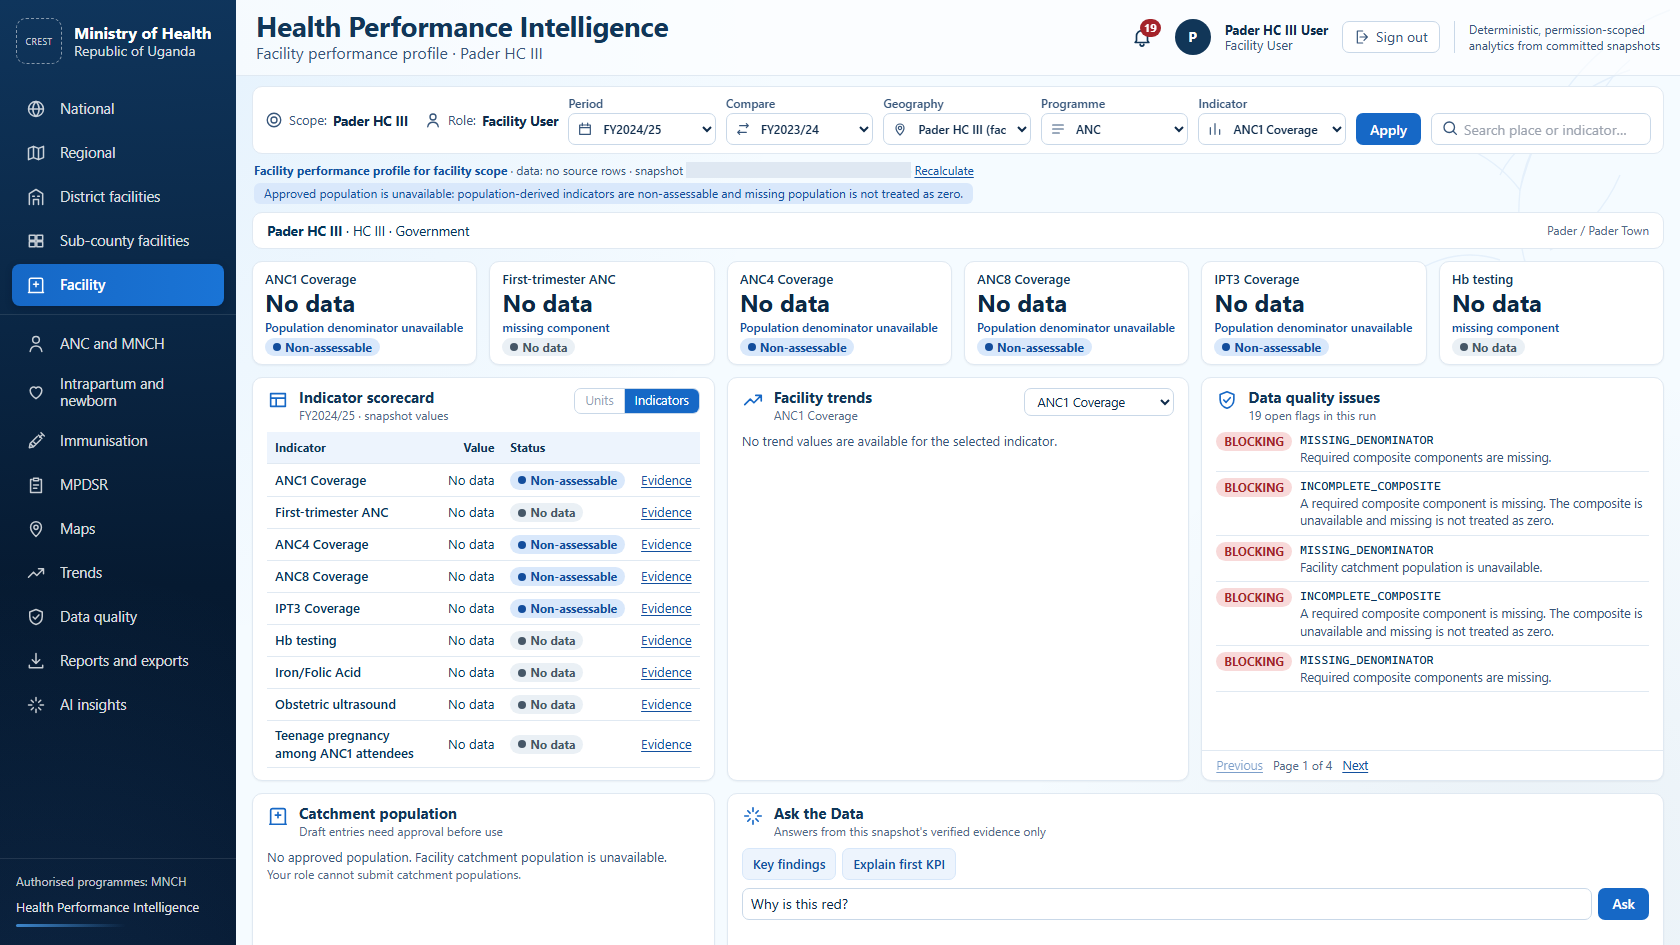
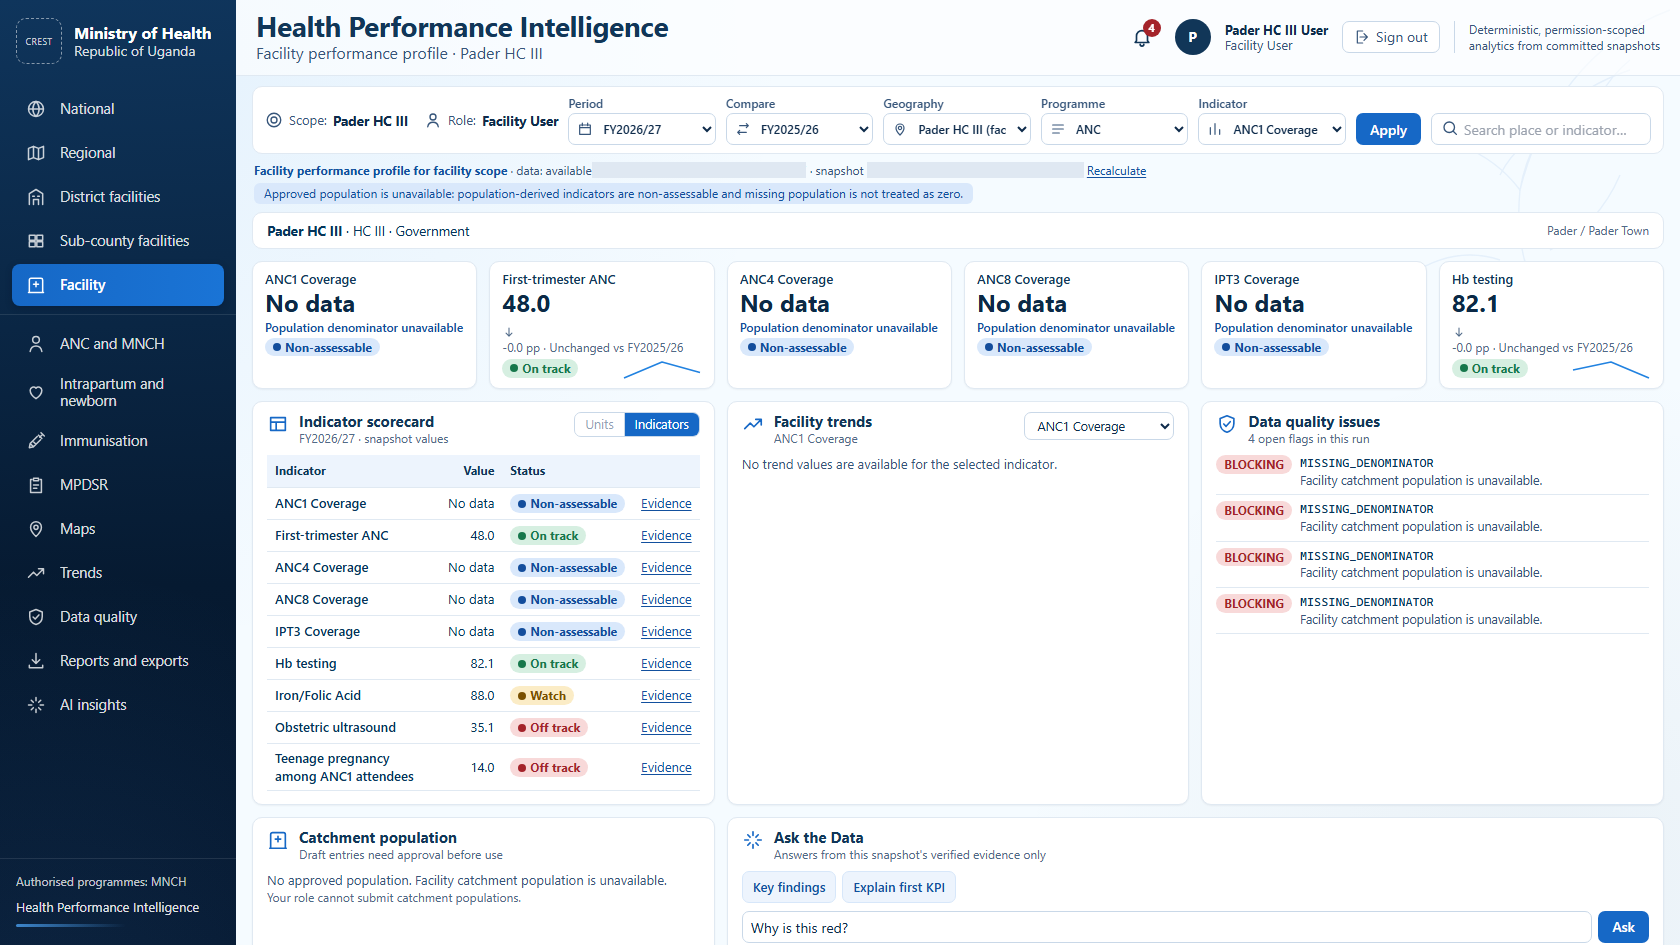
Document the demonstration dataset and what populating it exposed

diff --git a/docs/project-context/CHANGELOG_CONTEXT.md b/docs/project-context/CHANGELOG_CONTEXT.md
@@ -64,6 +64,40 @@ Before the first run, `CodexSandboxOffline` had again written `frontend/.next` (
 `frontend/test-results` and `backend/e2e_hpip.sqlite`; the build guard failed the gate (exit 1).
 They were moved, not deleted, to `.build-quarantine/20260915-third-pass/`.
 
+## 2026-09-18 — Demonstration dataset, calculation performance and layout fixes
+
+The dashboards could only be seen empty: the development seed created geography and users but no
+populations or source values, so every indicator was correctly unavailable and every panel read
+"No data". This adds an invented demonstration dataset for development and test, and fixes what it
+exposed. **No production data, population, boundary or DHIS2 connection is involved; nothing was
+deployed.**
+
+- **Demonstration dataset** (`app/services/demo_data.py`, refuses to run outside development/test):
+  fictional sub-counties and nine facilities, an approved-status fictional population version,
+  facility-level counts for every catalogue source key across FY2024/25–FY2026/27, `demo` source
+  mappings, and stylised invented outlines for the sub-regions and districts. Deterministic, with
+  deliberate gaps (no facility catchment population, no sub-county or facility geometry, nothing
+  before FY2024/25) so honest-missing behaviour stays visible. See `SYNTHETIC_FIXTURES.md`.
+- **Calculation performance (product defect):** lineage resolved the source mapping with one query
+  per source row. A national immunisation dashboard issued **4,627** SQL statements; a run-scoped
+  memo of the mapping lookup cuts it to **1,569** and the request from **3.3 s to 1.4 s** (ANC) and
+  **6.7 s to 2.7 s** (immunisation). This mattered only once real values existed, and matters far
+  more at national scale than in these fixtures.
+- **KPI card overflow (layout defect):** a long status label plus the fixed-width sparkline could not
+  shrink, so the card's grid track grew and the immunisation workspace scrolled horizontally (17 px
+  at 1680, 69 px at 390). The card now constrains its track and the footer wraps.
+- **Map evidence:** the map fits its cohort instantly instead of animating, and marks itself
+  `data-map-ready` when painted, so acceptance screenshots capture a drawn map rather than an empty
+  canvas.
+- **Default period** is FY2026/27 with FY2025/26 comparison — the current financial year, and the
+  three periods the approved population rules cover, so trends have three points.
+- **Playwright parallelism** is two workers: one disposable SQLite API serves every worker and each
+  screen commits a real calculation snapshot, so more workers measure contention, not the product.
+
+Verification (Windows workstation): full SQLite backend suite; `npm run e2e` **24 passed, 0 skipped,
+0 flaky**, natural exit, ports free, no survivors, tree unchanged; `npm run e2e:evidence` refreshed
+the tracked screenshots, which now show populated, coloured dashboards.
+
 ## 2026-09-16 — Acceptance-gate corrections (fourth pass)
 
 Bounded corrections to `npm run e2e` only. No application behaviour, deployment, push, or external

diff --git a/docs/project-context/DEFECT_MATRIX.md b/docs/project-context/DEFECT_MATRIX.md
@@ -127,3 +127,12 @@ Gate-only corrections after review rejected the third-pass gate. Logic now lives
 | 6 | Follow-up audit: initial enumeration failure recorded an error but still launched the unobservable build and services | Initial inventory is now a hard prerequisite. Failure sets `execution_started: false`, launches nothing, skips the inapplicable report-freshness check and returns a structured failed summary | Real hung-lister regression asserts zero preparation calls, zero spawns, no owned processes and no Playwright-report error; real entrypoint with a 1 ms query bound aborts before launch | Implemented, tested |
 | 7 | Follow-up audit: the clean real-process test was nondeterministic under the complete Vitest suite (`102 passed, 1 failed`) because restricted-Windows baseline-delta mode saw parallel Vitest workers as new processes | Real-process tests no longer overlap other test-file workers; final survivor verification uses bounded repeated queries instead of a single timing-sensitive snapshot and reports PID, creation time, attribution and kind for persistent survivors | Gate tests **18 passed**; complete **105 passed** in three consecutive runs; full `npm run e2e` under the checkout-owning account: **24 passed, 0 skipped, 0 flaky**, natural exit 0.1 s after the summary, 102 processes observed, 0 survivors, ports free, tree unchanged | Implemented, verified locally |
 | 8 | Identity capture allowed an undocumented two-second pre-spawn window on every platform | Process-table results declare timestamp resolution; Windows uses 1 ms and Unix `ps lstart` uses 1 s, with boundary regressions for accepted and rejected creation times | Millisecond and second-resolution identity-capture tests | Implemented, tested |
+
+## Findings exposed by the demonstration dataset — 2026-09-18
+
+Populating the development dashboards revealed two defects that an empty dataset could not show.
+
+| Item | Defect | Correction | Regression evidence | State |
+|---|---|---|---|---|
+| 1 | Calculation lineage issued one `SourceMapping` query per source row. One national immunisation dashboard ran 4,627 SQL statements (3,240 of them mapping lookups, 65% of the time) | Run-scoped memo keyed by programme, source key, mapping version, item UID, category combo and recorded mapping id; the mapping table cannot change during a run | 1,569 statements; national ANC 3.3 s → 1.4 s, immunisation 6.7 s → 2.7 s; 153 lineage/calculation tests pass unchanged | Implemented, tested |
+| 2 | KPI cards could not shrink: a long status label plus the fixed 80 px sparkline widened the card's implicit grid track, so the immunisation workspace overflowed horizontally at every breakpoint | The card declares one `minmax(0, 1fr)` track; the footer wraps and its children may shrink | Playwright overflow gate at 1680×945, 820×1180 and 390×844 | Implemented, tested |

diff --git a/docs/architecture/SYNTHETIC_FIXTURES.md b/docs/architecture/SYNTHETIC_FIXTURES.md
@@ -25,3 +25,28 @@ Test helpers insert `TEST_POP` / `TEST_SOURCE_SYNTHETIC` values. Default seed in
 ## Aggregation fixture
 
 `tests/test_aggregation_first.py` uses unequal child denominators (80/100 and 10/400) so the parent result is 90/500 = 18%, not the mean of 80% and 2.5%.
+
+## Demonstration dataset (development and test only)
+
+`app/services/demo_data.py` layers an invented dataset on the development seed so the dashboards can
+be seen working. `scripts/run_e2e_api.py` calls it; `seed_demo_analytics` refuses to run outside
+development and test. **Nothing in it is Ugandan health data, a national population, a DHIS2
+identifier or an approved boundary.**
+
+| What it adds | Detail |
+|---|---|
+| Geography | Fictional sub-counties (Atanga, Kitgum Central, Lagoro, Soroti East, Kamuda) and nine facilities under the existing synthetic districts |
+| Population | One approved-status version, `DEMO_SYNTHETIC` / `SYNTHETIC_DEMONSTRATION_FIXTURE`, for non-facility units, 2024–2027 |
+| Source values | Facility-level counts for every source key the approved catalogue reads, for FY2024/25, FY2025/26 and FY2026/27, written with source system `synthetic_demo_fixture` |
+| Source mappings | `DEMO_<key>` labels at mapping version `demo`, so calculations are not flagged as unmapped |
+| Geometry | Stylised invented outlines for the two sub-regions and three districts, source `synthetic_demo_fixture` |
+
+Values are deterministic — no randomness and no clock — so screenshots and tests are stable. They are
+shaped only to exercise the approved catalogue: every band, direction and formula still comes from
+`indicator_catalog`, and the demonstration layer defines no threshold and no formula.
+
+Deliberate gaps keep the honest-missing behaviour visible: facilities have **no** approved catchment
+population (facility screens still show the unavailable state), sub-counties and facilities have
+**no** geometry (a district map reports unavailable boundaries rather than borrowing shapes from
+another level), and periods before FY2024/25 have no approved population rule, so trends show gaps
+rather than invented history.

diff --git a/docs/architecture/LOCAL_DEVELOPMENT.md b/docs/architecture/LOCAL_DEVELOPMENT.md
@@ -92,6 +92,10 @@ Next.js 15.5.25 clears `.next` at the start of `next build` and retries `EPERM` 
 
 ### Playwright
 
+The disposable end-to-end API seeds the demonstration dataset described in
+`SYNTHETIC_FIXTURES.md`, so local screens render populated, coloured dashboards rather than empty
+states. It is development/test only and refuses to run anywhere else.
+
 `npm run e2e` and `npm run e2e:gate` use the bounded acceptance runner (`scripts/e2e-gate.mjs`;
 lifecycle logic in `scripts/e2e-gate-lib.mjs`, tests in `scripts/e2e-gate-lib.test.mjs`, run by
 `npm test`). It first creates a production build without a backend address (an owned, sampled
